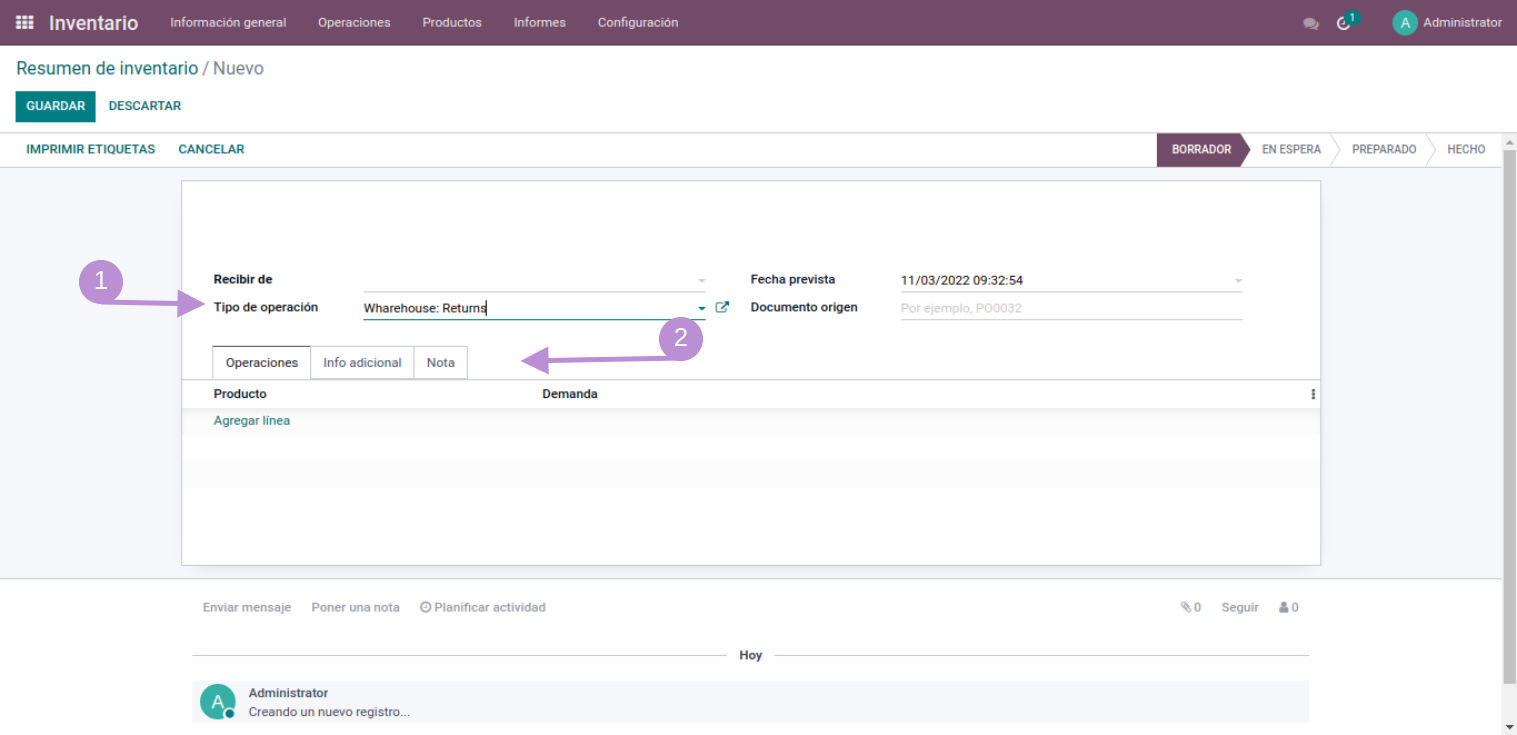
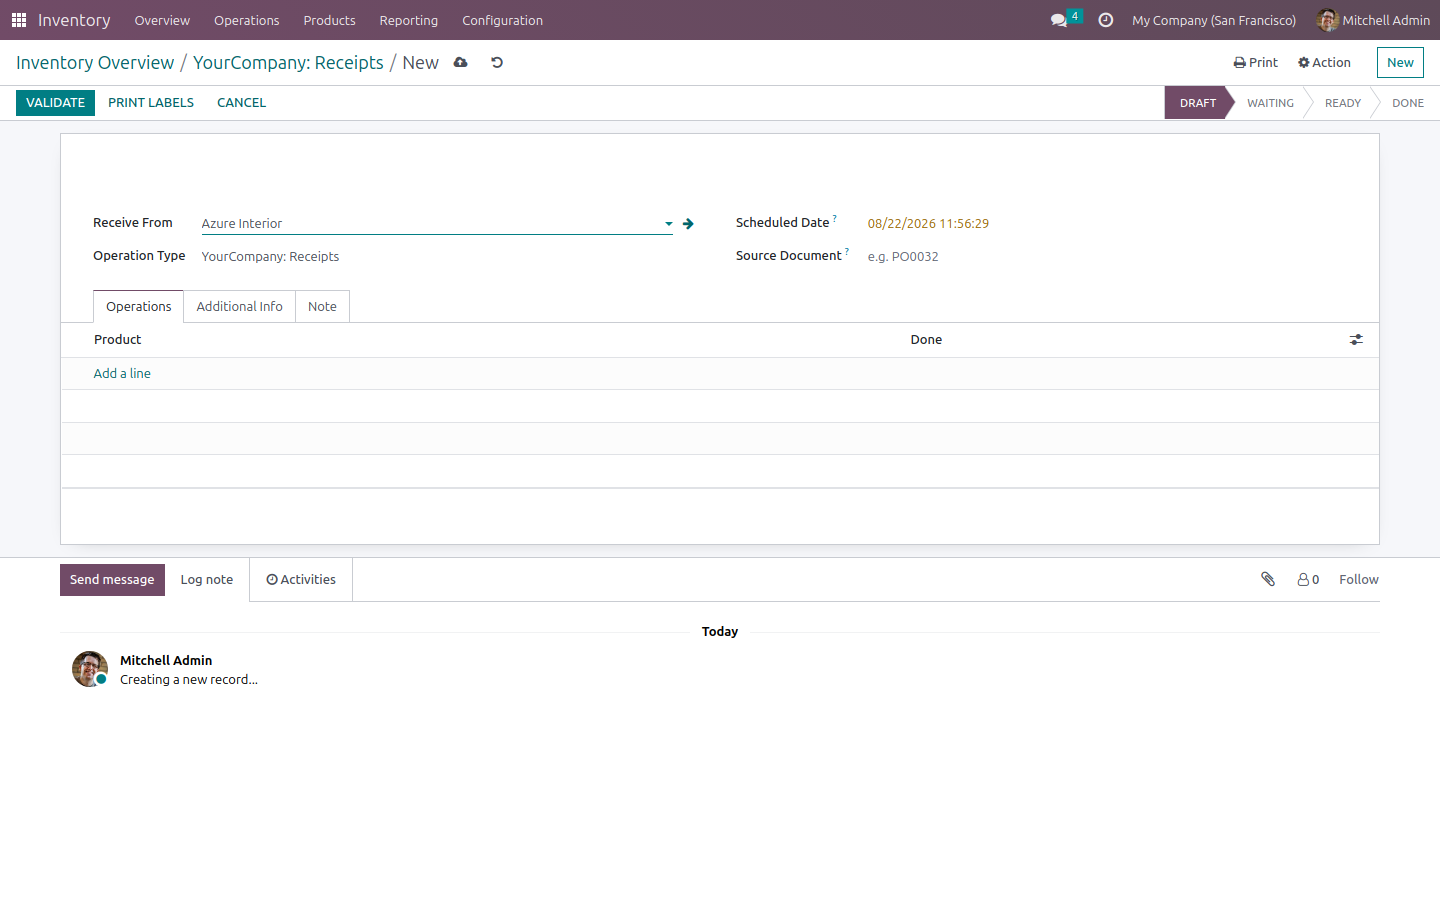
Replace listing screenshots with real Odoo 16 captures, fix invalid XML in index.html
Installed the module on a real Odoo 16 instance and exercised the actual flow
with Playwright: enabled "Signature in Picking" on the Delivery Orders
operation type, confirmed it stays hidden on a type where it's off (Receipts),
signed a real delivery, and printed the Picking Operations report to verify
the signature shows up on the PDF.

Also fixed static/description/index.html, which had four sibling <section>
elements as separate top-level nodes (invalid XML) plus unclosed <img> tags —
Odoo Apps Store's strict XML parser silently drops the whole description on
files like this, same bug already found and fixed in other modules in this
family. Wrapped everything under a single root section and added alt text.
Corrected the manifest version, which still read 15.0.1 on this branch.

diff --git a/signature_picking/static/description/index.html b/signature_picking/static/description/index.html
@@ -1,13 +1,11 @@
 <section class="oe_container">
     <div class="oe_row oe_spaced">
-        <h2 class="oe_slogan" style="color:#875A7B;">Signarture in Stock Piking</h2>
+        <h2 class="oe_slogan" style="color:#875A7B;">Signature in Stock Picking</h2>
         <p class="oe_mt32 text-center">
 			You can sign your orders to have tracking control and responsibility
 		</p>
     </div>
-</section>
 
-<section class="oe_container">
     <div class="oe_row oe_spaced">
         <div class="oe_span12">
             <h4 class="oe_mt32 oe_mb8 text-center">
@@ -15,31 +13,27 @@
             </h4>
             <p class="oe_mt32 text-center">
                 Validate the signature in the type of operation
-            </p> 
-            <img class="oe_picture oe_screenshot" src="stock_picking_type.png">
+            </p>
+            <img class="oe_picture oe_screenshot" src="stock_picking_type.png" alt="Enabling the &quot;Signature in Picking&quot; option on the Delivery Orders operation type"/>
         </div>
     </div>
-</section>
 
-<section class="oe_container">
     <div class="oe_row oe_spaced">
         <div class="oe_span12">
             <h4 class="oe_mt32 oe_mb8 text-center">
                 <b>Step 2:</b>
             </h4>
-            <p class="oe_mt32 text-center"> 
+            <p class="oe_mt32 text-center">
                 Sign your stock picking with the type of operation previously validated to sign.
             </p>
-            <img class="oe_picture oe_screenshot" src="stock_picking_signature.png">
-            <p class="oe_mt32 text-center"> 
+            <img class="oe_picture oe_screenshot" src="stock_picking_signature.png" alt="Delivery order form showing the Signature tab with a hand-drawn signature adopted"/>
+            <p class="oe_mt32 text-center">
                 If the type of operation was not validated to sign, the signature option will not appear.
             </p>
-            <img class="oe_picture oe_screenshot" src="stock_picking_no_signature.png">
+            <img class="oe_picture oe_screenshot" src="stock_picking_no_signature.png" alt="Receipt form with no Signature tab, since its operation type has signature disabled"/>
         </div>
     </div>
-</section>
 
-<section class="oe_container">
     <div class="oe_row oe_spaced">
         <div class="oe_span12">
             <h4 class="oe_mt32 oe_mb8 text-center">
@@ -48,10 +42,7 @@
             <p class="oe_mt32 text-center">
                 Print your stock picking operation to verify the signature.
             </p>
-            <img class="oe_picture oe_screenshot" src="report_stock_picking.png">
+            <img class="oe_picture oe_screenshot" src="report_stock_picking.png" alt="Printed Picking Operations report showing the delivered quantity and the signature"/>
         </div>
     </div>
-</section>
-
-<section class="oe_container oe_separator">
 </section>

diff --git a/signature_picking/__manifest__.py b/signature_picking/__manifest__.py
@@ -9,7 +9,7 @@
     'license': 'LGPL-3',
     'support': 'developmentalchemygx@gmail.com',
     'category': 'Warehouse Management',
-    'version': '15.0.1',
+    'version': '16.0.1',
     'price': 5.00,
     'currency': 'USD',
     'data': [
